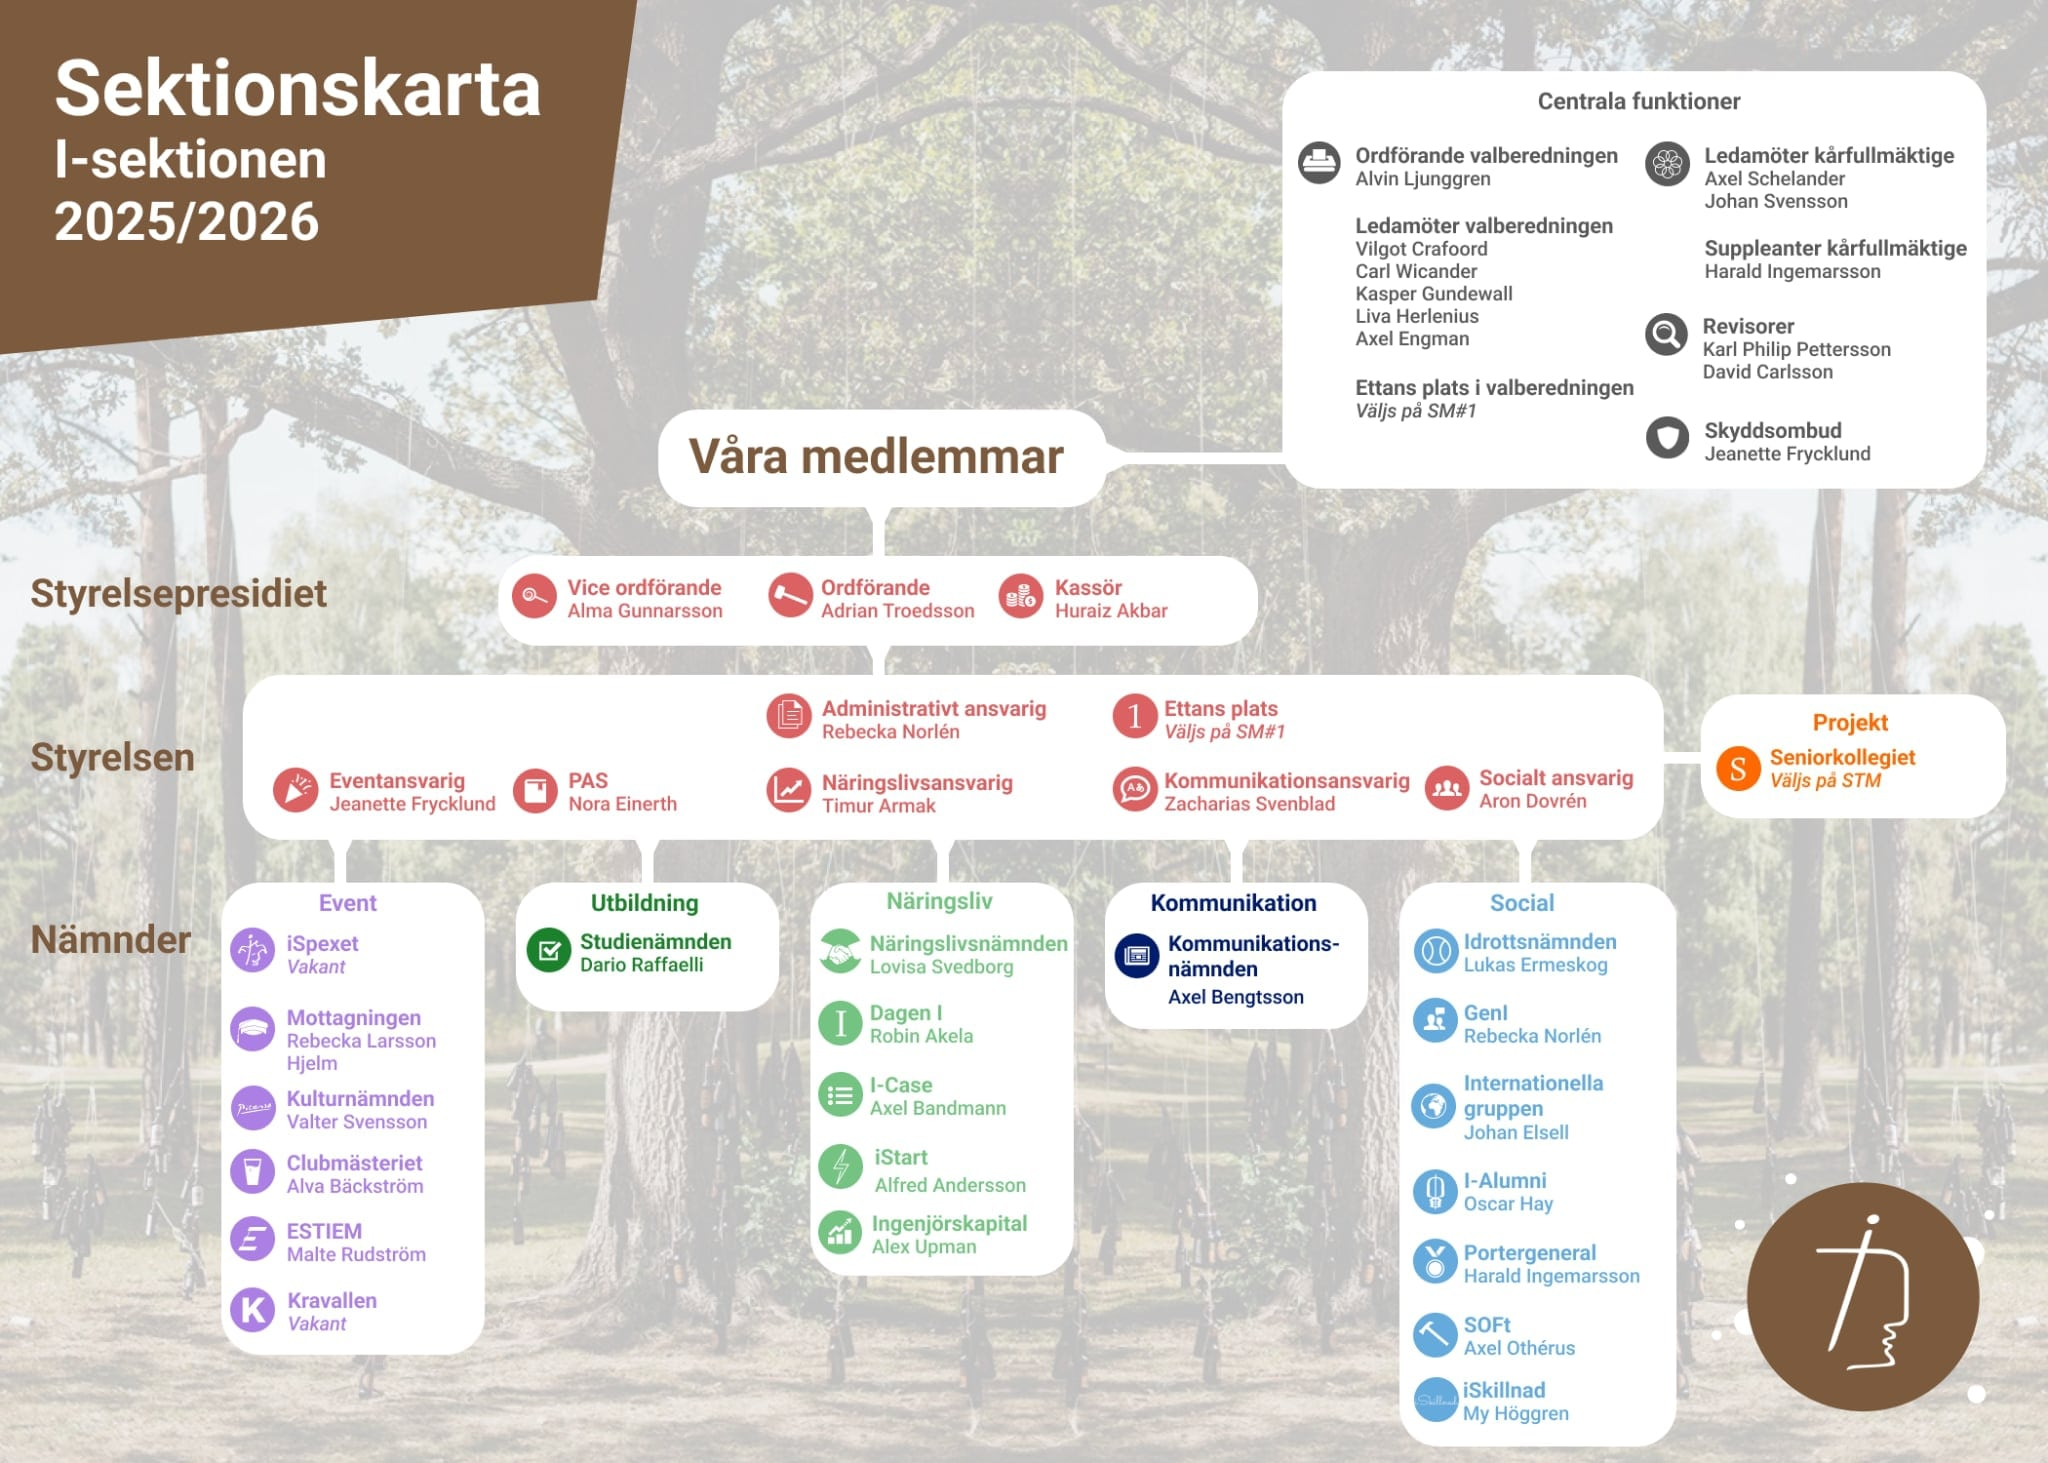
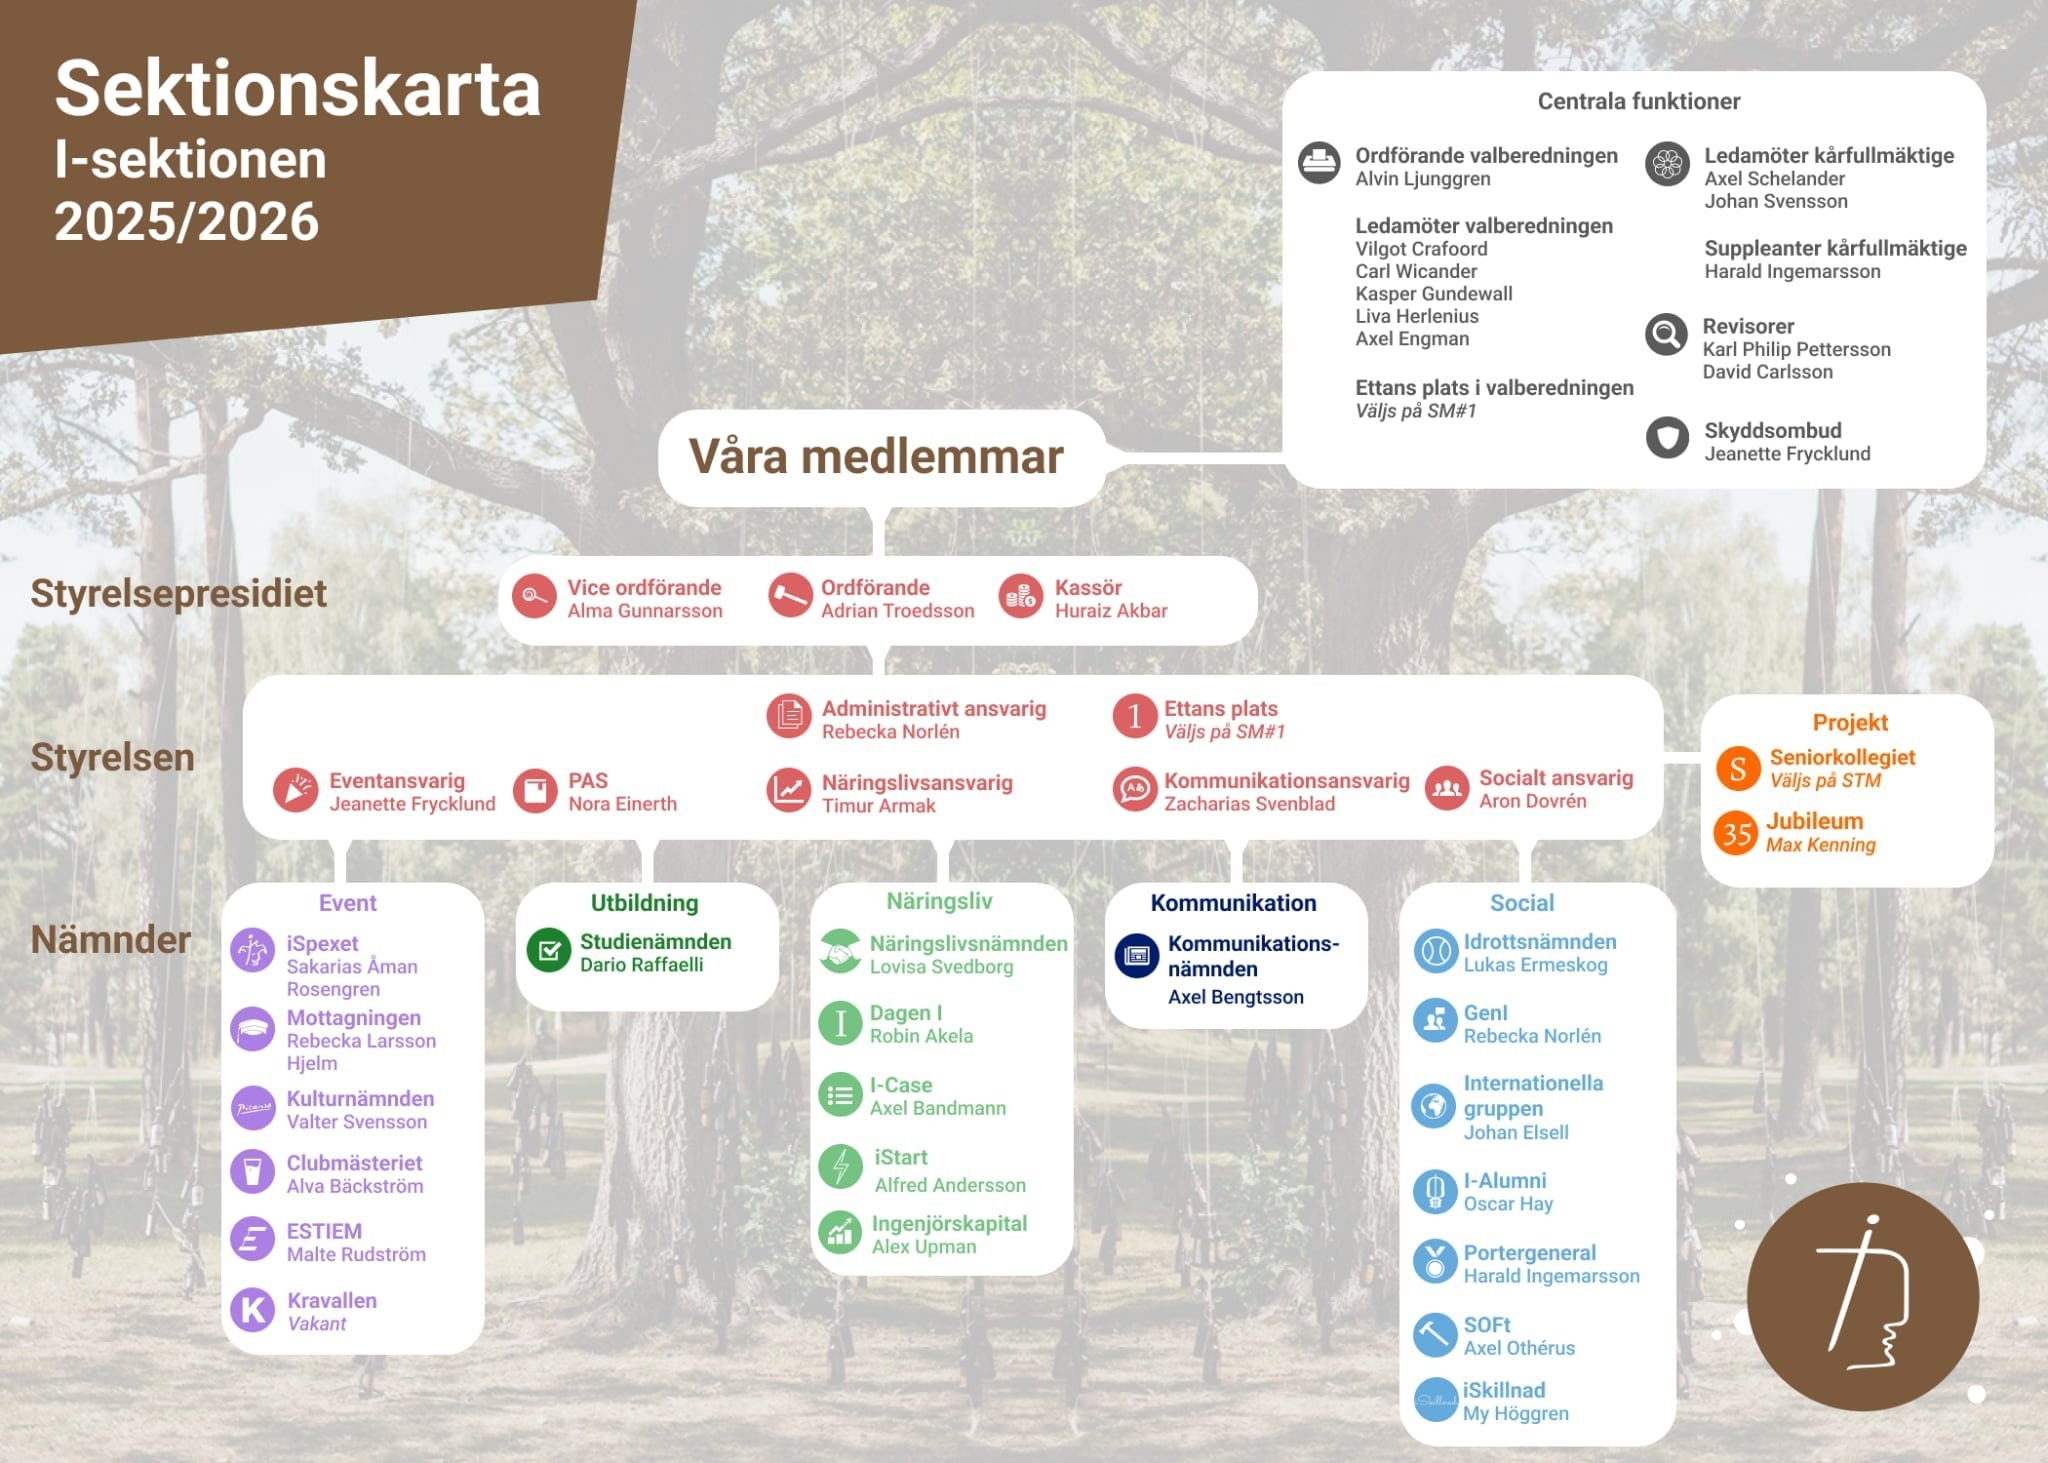
added new sektionskarta and uppdated some incorect info

Changed region(s): [[0.8125, 0.4921, 1.0, 0.6152], [0.125, 0.6459, 0.1875, 0.7075]]

diff --git a/docs/social/soft.md b/docs/social/soft.md
@@ -2,7 +2,7 @@
 
 ### Vad är SOFt?
 
-SOFt (Sektionens Officiella Fixarteam) är inte en vanlig nämnd, utan är snarare ett verktyg för sektionen och är den nämnd som underhåller och värnar om sektionens tillgångar. Vårt mål är att skapa en trivsam miljö för alla på sektionen! Detta görs framförallt genom underhåll av gemensamma resurser, men även genom olika typer av insatser för att skapa en trevligare miljö för alla medlemmar, till exempel genom att driva kreativa projekt och åtgärda sådant som behöver repareras eller uppdateras. Vi ansvarar även för sektionsbilen Volkis, som används för att underlätta transporter och aktiviteter inom verksamheten.
+SOFt (Sektionens Officiella Fixarteam) är inte en vanlig nämnd, utan är snarare ett verktyg för sektionen och är den nämnd som underhåller och värnar om sektionens tillgångar. Vårt mål är att skapa en trivsam miljö för alla på sektionen! Detta gör vi framförallt genom underhåll av sektionslokalen Issy och sektionsbilen Volkis, men även olika typer av insatser för att göra lokalen en trevligare plats för alla medlemmar genom att driva kreativa projekt och fixa sådant som behöver lagas eller uppdateras.
 
 SOFt är nämnden för dig som är nyfiken och öppen för att lösa problem och lära dig nya saker, samtidigt som du vill se till att sektionen har en välkomnande och trevlig plats att samlas på!
 

diff --git a/i18n/en/docusaurus-plugin-content-docs/current/social/soft.md b/i18n/en/docusaurus-plugin-content-docs/current/social/soft.md
@@ -2,7 +2,7 @@
 
 ### What is SOFt?
 
-SOFt (chapter Official Fixer Team) is not an ordinary committee, but rather a tool for the chapter and is the committee that maintains and protects the chapter's assets. Our goal is to create a pleasant environment for everyone in the chapter! This is done primarily through the maintenance of shared resources, but also through various initiatives to create a more pleasant environment for all members, such as running creative projects and addressing things that need repair or updating. We are also responsible for the section car, Volkis, which is used to facilitate transportation and activities within the organization.
+SOFt (chapter Official Fixer Team) is not an ordinary committee, but rather a tool for the chapter and is the committee that maintains and protects the chapter's assets. Our goal is to create a pleasant environment for everyone in the chapter! We do this primarily through maintenance of the chapter room Issy and the chapter car Volkis, but also different types of efforts to make the room a nicer place for all members by running creative projects and fixing things that need to be repaired or updated.
 
 SOFt is the committee for those who are curious and open to solving problems and learning new things, while making sure that the chapter has a welcoming and pleasant place to gather!
 

diff --git a/docs/event/ispexet.md b/docs/event/ispexet.md
@@ -5,12 +5,12 @@ iSpexet är Industriell ekonomis sektionsspex och bildades år 1997. Ett spex ä
 
 Om du gillar studentliv, gemenskap och framför allt om du gillar att ha kul så är iSpexet gruppen för dig!
 
-Spexdirecteur och nämndansvarig 2023/2024 är Alma Gunnarsson, I-21. För mer information om iSpexet, besök vår Facebooksida eller www.ispexet.se.
+Spexdirecteur och nämndansvarig 2025/2026 är Sakarias Åman Rosengren, I-22. För mer information om iSpexet, besök vår Facebooksida eller www.ispexet.se.
 
 *iSpexet – för ett riktigt roligt och studentikost år på KTH!*
 
 ### Directeur
 
-__Sakarias Åman Rosengren__ I-21
+__Sakarias Åman Rosengren__ I-22
 
 <img src={require("/static/img/profile.png").default} width="230"/>

diff --git a/i18n/en/docusaurus-plugin-content-docs/current/event/ispexet.md b/i18n/en/docusaurus-plugin-content-docs/current/event/ispexet.md
@@ -5,7 +5,7 @@ iSpexet is Industrial Economics' chapter spex and was formed in 1997. A spex is 
 
 If you like student life, community and above all if you like to have fun, then iSpexet is the group for you!
 
-Spex director and committee manager 2023/2024 is Alma Gunnarsson, I-21. For more information about iSpexet, visit our Facebook page or www.ispexet.se.
+Spex director and committee manager 2025/2026 is Sakarias Åman Rosengren, I-22. For more information about iSpexet, visit our Facebook page or www.ispexet.se.
 
 *iSpexet – for a really fun and student-friendly year at KTH!*
 

diff --git a/docs/event/estiem.md b/docs/event/estiem.md
@@ -31,6 +31,6 @@ Vill du kontakta ESTIEM kan du nå Ordförande på estiem@iare.nu och Local Resp
 
 ### Ordförande
 
-__Malte Rudström__ I-23, estiem@iare.nu
+__Malte Rudström__ I-24, estiem@iare.nu
 
 <img src={require("/static/img/profile.png").default} width="230"/>
